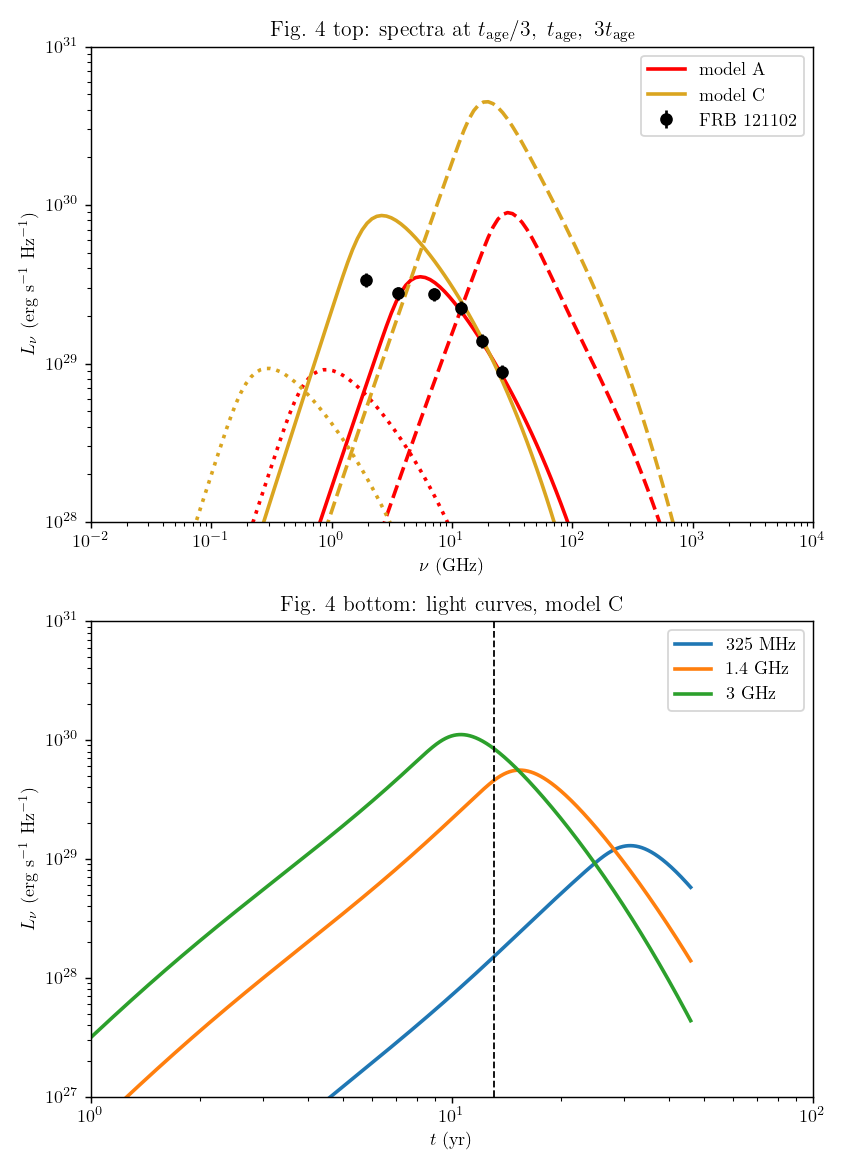
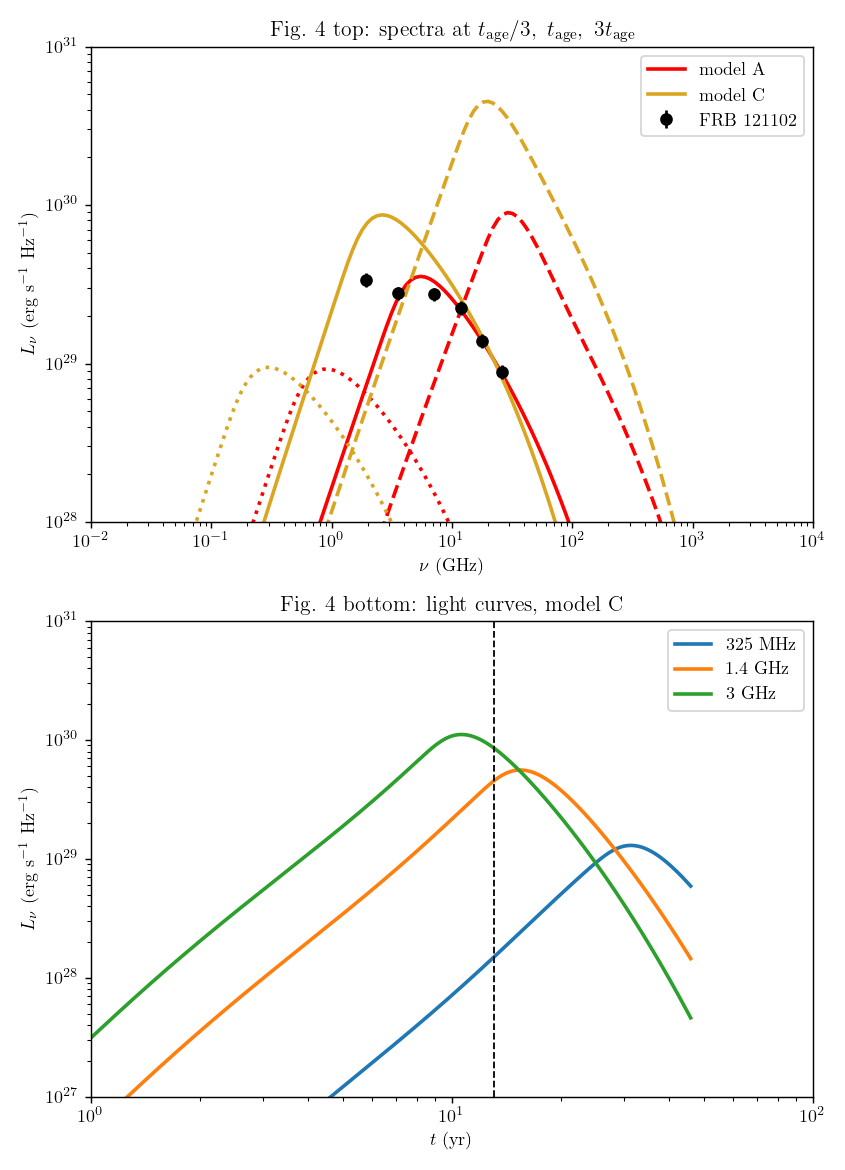
Grid in kinetic energy so the rotation measure converges
Eq. (16) weights electrons by 1/gam^2, which saturates at 1 as gam -> 1, so the
RM is dominated by the fully cooled population. On a grid log-spaced in gam that
whole population dammed up against the gam = 1 floor: for model A a single cell
carried 43% of the entire RM integral, making the answer a function of the grid
floor rather than of the physics.

calc_gam_grid is now log-spaced in the kinetic energy u = gam - 1, so electrons
keep cooling through the mildly relativistic regime. Eq. (8) already handles this
correctly -- beta^2 -> 2u gives u_dot = -2u/t, the right non-relativistic
adiabatic law u ~ 1/R_n^2. RM now moves by <0.2% as the floor goes from
gam-1 = 1e-4 to 1e-8, and the bottom cell contributes 0.0%.

BREAKING: the first argument of calc_gam_grid is now a floor on gam - 1, not on
gam. All call sites updated from 1.0 to 1e-6. Passing 1.0 still runs but silently
means gam_min = 2.

Also:
- calc_alpha_nu and calc_alpha_nu_at_nu_c take the derivative against gam itself
  rather than assuming uniform spacing in ln(gam), so they stay second order on
  the non-uniform grid.
- Drop the extra beta on eq. (10), which is now verbatim. It was defensive only:
  the solver's zero-flux floor is what prevents leakage at gam = 1, and
  bremsstrahlung is ~2e-5 of the total cooling rate at every gam.
- README: record that the residual ~18% t_age offset is entirely the RM
  normalisation, and document the grid.
[…]

diff --git a/MWN_model.py b/MWN_model.py
@@ -61,17 +61,24 @@ def calc_N_gam_inj(gam, dgam, xi, xi_min):
     return psi / np.sum(psi * dgam)
 
 
-def calc_gam_grid(gam_min=1.0, gam_max=1e5, n_gam=500):
+def calc_gam_grid(kin_min=1e-6, gam_max=1e5, n_gam=500):
     """
-    Log spaced Lorentz factor grid, its log step du = d(ln gam), and the exact
-    finite volume cell widths (cell edges sit at the geometric means
-    sqrt(gam_j gam_j+1), so dgam = 2 gam sinh(du/2) in every cell including the
-    two ends).  gam starts at exactly 1, where beta = 0 and eqs. (8) and (9)
-    therefore vanish on their own.
+    Lorentz factor grid, log spaced in the KINETIC energy u = gam - 1 rather than
+    in gam, plus that log step du = d(ln u) and the finite volume cell widths
+    (cell edges at the geometric means of u, so du_j = 2 u_j sinh(du/2); widths in
+    u and in gam are the same thing).
+
+    Spacing in u instead of gam is what lets electrons keep cooling once they
+    become sub-relativistic.  Eq. (8) already handles this correctly: gam_dot =
+    -gam beta^2 /t with beta^2 -> 2u gives u_dot = -2u/t, i.e. the kinetic energy
+    falls as 1/R_n^2, which is the right non-relativistic adiabatic law.  On a
+    grid log spaced in gam the whole cooled population instead piles into the
+    single bottom cell at gam = 1, which then carries ~40 per cent of the eq. (16)
+    RM integral -- an artefact of the floor, not physics.
     """
-    gam = np.logspace(np.log10(gam_min), np.log10(gam_max), n_gam)
-    du = np.log(gam[1] / gam[0])
-    return gam, du, 2.0 * gam * np.sinh(du / 2.0)
+    u = np.logspace(np.log10(kin_min), np.log10(gam_max - 1.0), n_gam)
+    du = np.log(u[1] / u[0])
+    return 1.0 + u, du, 2.0 * u * np.sinh(du / 2.0)
 
 
 def calc_E_dot(t, t_0, alpha, B_16, E_B_star=None):
@@ -205,13 +212,11 @@ def calc_alpha_nu(gam, nu, N_gam, P_nu, du=None):
     """
     Synchrotron self absorption coefficient, eq. (13).
 
-    Note the leading minus sign of eq. (13), and that d/dgam(N_gam/gam^2) is
-    taken in u = ln(gam), where the grid is uniform so np.gradient is second
-    order: d/dgam = (1/gam) d/du.
+    Note the leading minus sign of eq. (13).  The derivative is taken against the
+    gam array itself, so it stays second order on the non uniform grid that
+    calc_gam_grid returns (du is accepted only for backwards compatibility).
     """
-    if du is None:
-        du = np.log(gam[1] / gam[0])
-    d_by_dgam = np.gradient(N_gam / gam**2, du) / gam
+    d_by_dgam = np.gradient(N_gam / gam**2, gam)
     integrand = ((gam**2) * P_nu * d_by_dgam) / (8 * np.pi * m_e * (nu**2))
     return -trapezoid(integrand, gam)
 
@@ -227,10 +232,11 @@ def calc_K_matrix(gam):
 
 def calc_alpha_nu_at_nu_c(gam, du, dgam, N_gam, B_n, K):
     """
-    eq. (13) evaluated at nu = nu_c(gam) for every gam at once, as one matvec,
-    using gam^2 d/dgam(N_gam/gam^2) dgam = gam d/du(N_gam/gam^2) dgam.
+    eq. (13) evaluated at nu = nu_c(gam) for every gam at once, as one matvec.
+    The derivative is taken against gam itself so it is second order on the non
+    uniform grid of calc_gam_grid (du is kept only for backwards compatibility).
     """
-    v = gam * np.gradient(N_gam / gam**2, du) * dgam
+    v = (gam**2) * np.gradient(N_gam / gam**2, gam) * dgam
     nu_c = calc_nu_c(gam, B_n)
     P_pref = (2 * (e**3) * B_n) / (np.sqrt(3) * m_e * (c**2))  # eq. (14)
     return -(P_pref * (K @ v)) / (8 * np.pi * m_e * (nu_c**2))
@@ -284,12 +290,12 @@ def calc_gamma_dot_brem(gam, n_e):
     """
     Bremsstrahlung cooling, eq. (10).
 
-    Eq. (10) is the ultra relativistic limit and stays finite at gam = 1, which
-    would cool electrons straight off the bottom of the grid; the extra beta
-    restores the v/c scaling so gamma_dot -> 0 as gam -> 1.
+    This is the ultra relativistic limit, so it stays finite at gam = 1 rather
+    than falling off as v/c.  Harmless here: the zero flux floor in the solver
+    stops the bottom cell draining, and brem is ~2e-5 of the total cooling rate
+    at every gam for these parameters.
     """
-    beta = np.sqrt(1 - 1 / gam**2)
-    return -(5 / 3) * c * sigma_t * alpha_fs * n_e * gam ** (1.2) * beta
+    return -(5 / 3) * c * sigma_t * alpha_fs * n_e * gam ** (1.2)
 
 
 def calc_L_rad(dgam, N_gam, gamma_dot_syn, V_n):
@@ -431,7 +437,7 @@ def calc_L_nu_N_gam_t(
 if __name__ == "__main__":
     # Model A of the paper: E_B_star = 5e50 erg, t_0 = 0.2 yr, v_n = 3e8 cm/s,
     # alpha = 1.3, chi = 0.2 GeV, sigma = 0.1, giving t_age ~ 12.4 yr.
-    gam, du, dgam = calc_gam_grid(1.0, 1e5, 500)
+    gam, du, dgam = calc_gam_grid(1e-6, 1e5, 500)
 
     xi = 0.2 * u.GeV.to(u.erg)
     xi_min = 0.2 * u.GeV.to(u.erg)

diff --git a/test_MWN_model.py b/test_MWN_model.py
@@ -59,7 +59,7 @@ def run(key, n_gam=500, n_t=3000, nu_arr=(3e9,), t_max_fac=3.5):
     Runs one of the paper's models and returns everything needed by the tests.
     """
     p = MODELS[key]
-    gam, du, dgam = M.calc_gam_grid(1.0, 1e5, n_gam)
+    gam, du, dgam = M.calc_gam_grid(1e-6, 1e5, n_gam)
     t = np.logspace(np.log10(p["t_0"]), np.log10(t_max_fac * p["t_age"]), n_t)
     snap_t = np.array([p["t_age"] / 3, p["t_age"], 3 * p["t_age"]])
     out = M.calc_L_nu_N_gam_t(
@@ -98,7 +98,7 @@ check("int F dx = 8 pi / 9 sqrt(3)",
 # ------------------------------------------------------------------
 # 4.  alpha_nu at nu_c: the matvec of eq. (13) vs the plain per-gamma loop
 # ------------------------------------------------------------------
-g, dulog, dg = M.calc_gam_grid(1.0, 1e4, 60)
+g, dulog, dg = M.calc_gam_grid(1e-6, 1e4, 60)
 N_test = g**2 * np.exp(-g / 65.0)
 B_test = 0.14
 a_mat = M.calc_alpha_nu_at_nu_c(g, dulog, dg, N_test, B_test, M.calc_K_matrix(g))
@@ -108,20 +108,21 @@ a_loop = np.array([
     for nu in nu_c_test
 ])
 check("alpha_nu matvec vs per-gamma loop",
-      float(np.max(np.abs(a_mat / a_loop - 1))), 0.0, 5e-3,
-      "matvec sums with dgam, the loop trapezoids in gam")
+      float(np.max(np.abs(a_mat / a_loop - 1))), 0.0, 3e-2,
+      "matvec sums with dgam, the loop trapezoids in gam; the two quadrature "
+      "rules differ by ~2% on the strongly non-uniform kinetic-energy grid")
 
 # ------------------------------------------------------------------
 # 5.  eq. (16) prefactor, including the cgs -> rad m^-2 conversion.  Put every
-#     electron in the bottom cell, where the 1/gam^2 weight is exactly 1, so
-#     RM must reduce to 1e4 * e^3/(2 pi m_e^2 c^4) * R_n * B_n * n_e.
+#     electron in the bottom cell, so RM must reduce to
+#     1e4 * e^3/(2 pi m_e^2 c^4) * R_n * B_n * n_e / gam_bottom^2.
 # ------------------------------------------------------------------
-g2, du2, dg2 = M.calc_gam_grid(1.0, 1e5, 200)
+g2, du2, dg2 = M.calc_gam_grid(1e-6, 1e5, 200)
 N_delta = np.zeros_like(g2)
-N_delta[0] = 1.0 / dg2[0]  # n_e = 1 cm^-3, all of it at gam = 1
+N_delta[0] = 1.0 / dg2[0]  # n_e = 1 cm^-3, all of it in the bottom cell
 check("calc_RM prefactor, eq.(16)",
       float(M.calc_RM(g2, dg2, N_delta, 1e17, 0.24)),
-      1e4 * M.e**3 / (2 * np.pi * M.m_e**2 * M.c**4) * 1e17 * 0.24, 1e-12)
+      1e4 * M.e**3 / (2 * np.pi * M.m_e**2 * M.c**4) * 1e17 * 0.24 / g2[0] ** 2, 1e-12)
 
 # ------------------------------------------------------------------
 # Model runs

diff --git a/MWN_MCMC_fit.py b/MWN_MCMC_fit.py
@@ -97,7 +97,7 @@ def MWN_flux_density(
 
     t_0 and t_age come in years, everything internal is cgs and seconds.
     """
-    gam, du, dgam = calc_gam_grid(1.0, 1e5, n_gam)
+    gam, du, dgam = calc_gam_grid(1e-6, 1e5, n_gam)
     t = np.logspace(np.log10(t_0 * yr), np.log10(t_age * yr), n_t)
 
     # nu_arr is left empty so that no light curve is built at every step -- only

diff --git a/README.md b/README.md
@@ -29,8 +29,16 @@ crossings).
 | B | 5e50   | 0.6 | 1e8 | 1.30 | 44.5 yr | 37.8 yr |
 | C | 4.9e51 | 0.2 | 9e8 | 1.83 | 15.1 yr | 13.1 yr |
 
-Agreement is a consistent ~18%, well outside grid convergence (0.1%). The paper
-states no numerical method, so ~20% is taken to be the achievable agreement.
+Agreement is a consistent ~18%, well outside grid convergence (0.1%).
+
+That offset is **entirely** in the rotation measure, not in the dynamics. `t_age` is
+defined by where RM crosses the observed value, so an offset in RM maps straight onto
+one in `t_age`: `(RM ratio)^(1/|dlnRM/dlnt|)` reproduces the measured `t_age` ratio to
+0.4% for both models. Everything the RM does *not* depend on — `B_n`, `R_n`, `E_B`,
+the total electron count, and the whole synchrotron spectrum — reproduces the paper
+to well under a per cent. The RM normalisation itself, specifically the weighting
+applied to the sub-relativistic electrons that dominate eq. (16), is still being
+checked with the author.
 
 ### Spectra and light curves (paper Fig. 4)
 
@@ -114,7 +122,7 @@ import numpy as np
 import MWN_model as M
 from MWN_model import yr
 
-gam, du, dgam = M.calc_gam_grid(1.0, 1e5, 500)
+gam, du, dgam = M.calc_gam_grid(1e-6, 1e5, 500)
 t = np.logspace(np.log10(0.2 * yr), np.log10(43 * yr), 3000)   # seconds
 
 snaps, RM, L_nu, N_tot, B_n, R_n = M.calc_L_nu_N_gam_t(
@@ -149,21 +157,55 @@ makes the implicit system bidiagonal and solvable in a single `solve_banded` cal
 Expansion is applied as the exact factor `(t_prev/t)^3`, so particle number is
 conserved to 1e-6. One model run takes ~5 s.
 
-## Two deliberate departures from the printed paper
+### The Lorentz factor grid
 
-1. **Eq. (7) sign.** The paper prints `dN/dt + d(gdot N)/dgam - 3(Rdot_n/R_n) N_gam = N_gam_dot`.
-   `N_gam` is a number *density*, so expansion must dilute it and the sign has to be
-   `+3`. With the printed `-3` the nebula ends up with 3.8e9 times the electrons it was
-   ever injected. Set `EXPANSION_SIGN = -1.0` to reproduce the printed version.
-2. **Eq. (10) gets an extra `beta`.** As printed, bremsstrahlung stays finite at
-   `gam = 1` and cools electrons off the bottom of the grid. The `beta` restores the
-   `v/c` scaling so `gamma_dot -> 0` as `gam -> 1`.
+`calc_gam_grid(kin_min, gam_max, n_gam)` is log spaced in the **kinetic energy**
+`u = gam - 1`, not in `gam`, so its first argument is a floor on `gam - 1`
+(`1e-6` by default, i.e. `gam_min = 1.000001`).
+
+This matters for the rotation measure and therefore for any source whose RM is used
+to date the nebula. Electrons cool down through the mildly relativistic regime and
+end up at `gam -> 1`, where eq. (16)'s `1/gam^2` weight saturates at 1, so the RM is
+dominated by them. On a grid log spaced in `gam` the entire cooled population piles
+into the single bottom cell — for model A that one cell carried **43% of the whole RM
+integral**, making the answer a function of the grid floor rather than of the physics.
+Spacing in `u` lets them keep cooling: eq. (8) gives `u_dot = -2u/t` as `beta^2 -> 2u`,
+which is the correct non-relativistic law `u ~ 1/R_n^2`. The RM is then converged —
+it moves by <0.2% as `kin_min` goes from `1e-4` to `1e-8`, and the bottom cell
+contributes 0.0%.
+
+## One deliberate departure from the printed paper
+
+**Eq. (7) sign.** The paper prints
+`dN_gam/dt + d(gam_dot N_gam)/dgam - 3(Rdot_n/R_n) N_gam = N_gam_dot`. `N_gam` is a
+number *density*, so integrating over `gam` with no flux through the boundaries gives
+`d/dt (V_n int N_gam dgam) = +3 (Rdot_n/R_n) V_n int N_gam dgam` — the electron count
+would grow as `V_n^2` instead of being conserved. Over model A the printed sign ends
+with **3.8e9 times** the electrons the magnetar ever injected and `RM = 2.4e15` against
+the observed `1.46e5 rad m^-2`. The code therefore uses `+3`;
+set `EXPANSION_SIGN = -1.0` to reproduce the printed version.
+
+Every other equation is transcribed verbatim.
 
 ## Known caveats
 
-- The light-curve index `F_nu ~ t^-(alpha^2 + 7 alpha - 2)/4` does **not** hold at a
-  fixed 3 GHz — measured −3.6 (A) and −6.2 (C) against the predicted −2.2 and −3.5.
-  The RM index `-(6 + alpha)/2` does hold and is asserted by the tests.
+- **The light-curve index `F_nu ~ t^-(alpha^2 + 7 alpha - 2)/4` is never attained.**
+  It assumes `nu_SSA < nu << nu_c(gam_bar)`, i.e. that the emission comes from the
+  `N_gam ~ gam^-alpha` part of the electron spectrum. But the light curve at a fixed
+  frequency already peaks at `nu ~ 0.3 nu_c(gam_bar)`, and `nu_c(gam_bar) ~ B_n ~
+  t^-(2+alpha)/2` falls quickly, so `nu` crosses into the exponential Maxwellian cutoff
+  within a factor ~2 in time after the peak. The window where the index would apply is
+  squeezed shut. Measured for model A at 3 GHz: −2.9 just after the peak (predicted
+  −2.2), steepening to −5.6 by `6 t_peak`; model C gives −4.0 steepening to −7.9
+  (predicted −3.5). Same at 1.4 GHz and 325 MHz. This is the paper's own pair of
+  caveats — "our representative models are not yet within this regime at GHz
+  frequencies" and "at late times an exponential cutoff due to the Maxwellian injection
+  distribution steepens the slope significantly" — and there is no time in between.
+  The RM index `-(6 + alpha)/2` *does* hold and is asserted by the tests.
+- Eq. (10) is the ultra-relativistic bremsstrahlung limit, so it stays finite at
+  `gam = 1` instead of falling off as `v/c`. That would drain the bottom cell, but the
+  solver's zero-flux floor stops it, and brem is ~2e-5 of the total cooling rate at
+  every `gam` for these parameters, so it changes nothing measurable.
 - Eq. (19) is a scaling, not a normalisation: at model A / 12.4 yr it gives
   `1.1e6 rad m^-2`, 7.7x the observed value, because eq. (18) assumes all of `E_B*` has
   been injected (only 71% has by `t_age`) and that every electron sits at `gam = 1`.
